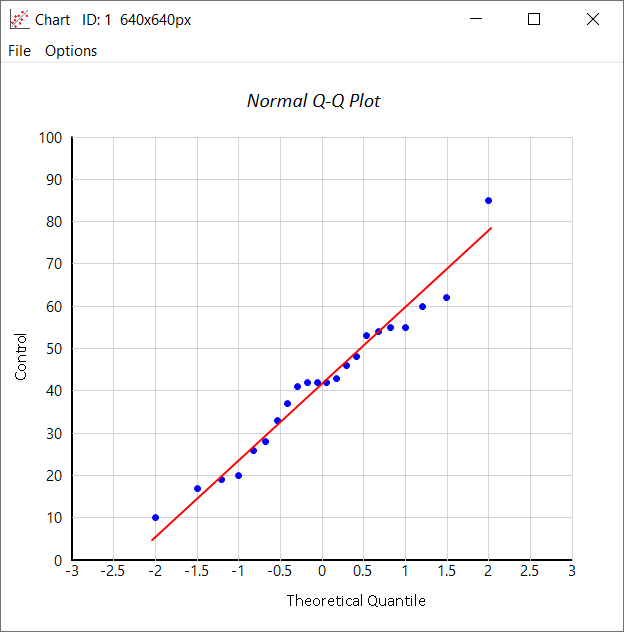
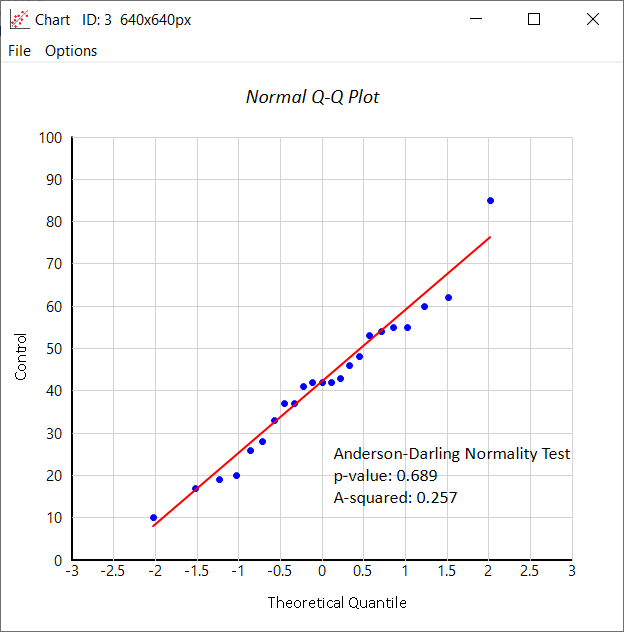
anderson-darling test added, imgs updated

diff --git a/manual/plotter/qqchart/qqchart.php b/manual/plotter/qqchart/qqchart.php
@@ -196,7 +196,9 @@
 
  <img src="images/selection_singlecolumn.png" alt="">
 
-
+<p>
+    Note that Anderson-Darling normality test is not shown by default.
+</p>
 
 
  <p>&nbsp;</p>
@@ -264,9 +266,10 @@
 
 <p>&nbsp;</p>
 
-<p>
+<p class="rightmargined">
     When a single column is selected, the "theoretical line" can be shown or hidden 
-    and its appearance can be changed.
+    and its appearance can be changed. Furthermore, Anderson-Darling normality test 
+    can be carried out.
 </p>
 
 
